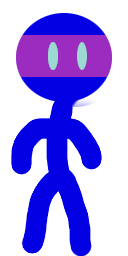
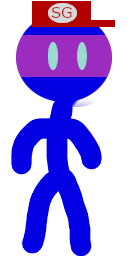
Mar10 SkyGuy special update

Changed region(s): [[0.25, 0.0, 0.9062, 0.125]]

diff --git a/skyguy.html b/skyguy.html
@@ -5,11 +5,11 @@
     <title>Sky Guy</title>
     <link rel="stylesheet" href="skyguy.css">
     <div id="mainScreen" class="main-screen">
-<!--        <h1 id="skyguylogo">SKY GUY</h1>-->
 
         <img id="sg-logo" src="game-assets/images/logo.png" alt="The Sky Guy logo.">
 
         <h2 id="date"><i>January 1st, 2000!</i></h2>
+        <h2><i>(Happy Mar10!)</i></h2>
         <button id="startButton" class="block-button">Start Game</button>
         <button id="instructionsButton" class="block-button">Instructions</button>
         <button id="creditsButton" class="block-button">Credits</button>

diff --git a/skyguy.js b/skyguy.js
@@ -735,4 +735,3 @@ function loadLevel(levelData){
     }
 
 }
-
